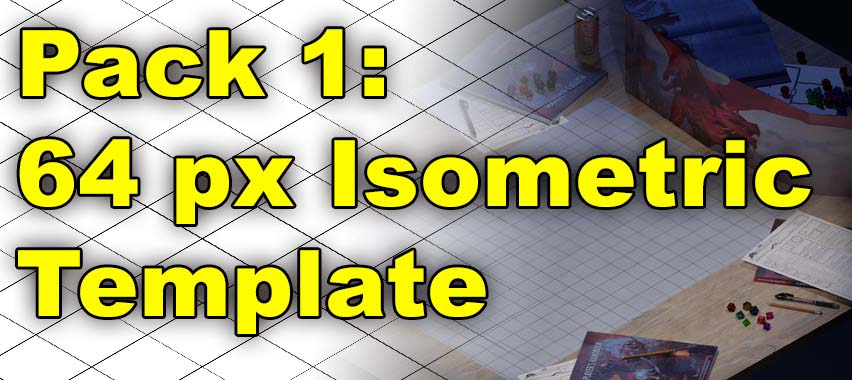
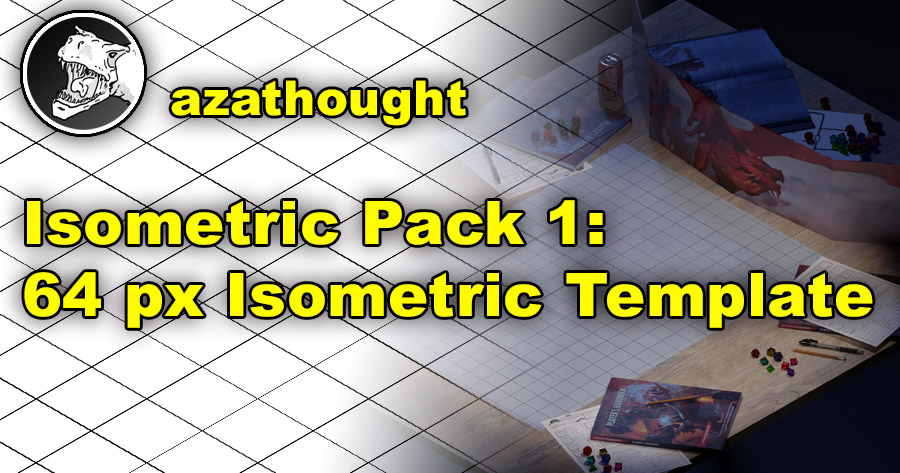
Isometric landing page 2

diff --git a/_posts/2020-12-24-isometric-pack-1.md b/_posts/2020-12-24-isometric-pack-1.md
@@ -1,0 +1,29 @@
+---
+layout: post
+title: 'Isometric Pack 1: 64 px Isometric Template'
+date: '2020-12-24 00:00:00 -0500'
+description: Content for people running isometric games in Foundry VTT or Roll20
+img: content/Pack1Spash.jpg
+tags:
+  - tabletop_rpg
+  - isometric
+published: true
+comments: true
+---
+
+Includes:
+* transparent png isometric grid at 64 px size
+* Foundry VTT settings
+* "game table" landing page or "no prep" page
+* all Photoshop source files
+
+⬇[\[Download\] Pack 1: Azathought 64px Isometric Template](http://bit.ly/azathought-iso-template)⬇
+
+My content is a fan work which may contain Wizards of the Coast IP and is shared following the rules of the [Wizards of the Coast Fan Content Policy](https://company.wizards.om/fancontentpolicy)
+
+Original content is is Creative Commons - [CC BY-NC 2.0](https://creativecommons.org/licenses/by-nc/2.0/)
+
+Contains content that is Creative Commons, including :
+* Ballpoint pen and pencil CC-0 from [lakerice](https://www.blendswap.com/blend/22197)
+* coke CC-BY by [jackho](https://blendswap.com/blend/13061)
+* Doce CC-BY-NC by [lifeenjoyer](https://blendswap.com/blend/16634)

diff --git a/isometric.md b/isometric.md
@@ -21,8 +21,7 @@ My tools and approaches have changed over the years, and I started making videos
 
 ## Azathought Isometric Content Releases
 I decided not to start a patreon. I don't want my hobby turning into an obligation, so I'll just post links to my most recent content packs here:
-{% include image.html url="content/Pack1Spash.jpg" description="templates" caption="64px isometric grid and gaming table background" %}
-[\[Download\] Pack 1: Azathought 64px Isometric Template](http://bit.ly/azathought-iso-template)
+* [Isometic Pack 1: 64 px Isometric Template](/isometric-pack-1/)
 
 
 ## Older Blog Posts
@@ -38,4 +37,5 @@ Index of active Isometric rpg art creators.  We all have opinions on the style a
 * [Isometric Worlds](https://www.patreon.com/isometricworlds)
 * [Stelliadi](https://www.patreon.com/stelliadi_isometric)
 * [Two Brave Puffins](https://www.patreon.com/TwoBravePuffins)
+* [TheFlyingMinotaur](https://www.patreon.com/user?u=7285440)
 * [The Iso Explorer](https://www.patreon.com/theisoexplorer)
